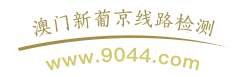
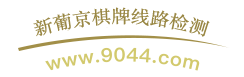
1

Changed region(s): [[0.1148, 0.1039, 0.8893, 0.4935]]

diff --git a/9044/m/index.html b/9044/m/index.html
@@ -5,7 +5,7 @@
 	<meta name="viewport"
 				content="width=device-width, user-scalable=no, initial-scale=1.0, maximum-scale=1.0, minimum-scale=1.0">
 <meta http-equiv="x-ua-compatible" content="ie=edge">
-<title>澳门新葡京</title>
+<title>新葡京棋牌</title>
 <link rel="shortcut icon" href="favicon.ico" type="image/x-icon">
 <link rel="stylesheet" href="css/reset.css">
 <link rel="stylesheet" href="css/style.css">
@@ -67,7 +67,7 @@ $(function(){
 <div class="header clearfix">
 	<div class="hImg"><img src="images/h_img01.png" alt=""></div>
 	<div class="hLogo"><a href="javascript:void(0);" target="_blank" class="logo"><img src="images/logo.png" alt=""></a></div>
-	<div class="hService"><a href="https://vue.livelyhelp.chat/chatWindow.aspx?siteId=5001108&planId=109#"><img src="images/h_img02.png" alt=""></a></div>
+	<div class="hService"><a href="https://vue.livelyhelp.chat/chatWindow.aspx?siteId=5001108&planId=109#" target="_blank"><img src="images/h_img02.png" alt=""></a></div>
 </div>
 <div id="main">
 	<ul class="tabUl clearfix">
@@ -132,12 +132,12 @@ $(function(){
 		<li class="lis"><a href="http://1110122.com" class="home"><img src="images/img05.png" alt=""><span>官方首页</span></a></li>
 		<li class="lis"><a href="http://1110122.com" class="zhuce"><img src="images/img06.png" alt=""><span>免费注册</span></a></li>
 		<li class="lis"><a href="http://1110122.com" class="daili"><img src="images/img07.png" alt=""><span>代理登入</span></a></li>
-		<li><a href="https://gzz833.livechatvalue.com/chat/chatClient/chatbox.jsp?companyID=1072641&configID=41615&jid=5509606658&s=1"><img src="images/img08.png" alt=""><span>在线客服</span></a></li>
+		<li><a href="https://vue.livelyhelp.chat/chatWindow.aspx?siteId=5001108&planId=109#" target="_blank"><img src="images/img08.png" alt=""><span>在线客服</span></a></li>
 	</ul>
 </div>
 </div>
 <div id="footer">
-	<p class="copyright">copyright © 2018 澳门新葡京 reserved</p>
+	<p class="copyright">copyright © 2018 新葡京棋牌 reserved</p>
 </div>
 <script type="text/javascript" src="js/ms.js"></script>
 </body>

diff --git a/9044/index.html b/9044/index.html
@@ -4,7 +4,7 @@
   <meta charset="utf-8">
   <meta name="viewport"
         content="width=device-width, initial-scale=1.0, maximum-scale=1.0, minimum-scale=1.0, user-scalable=no">
-  <title>澳门新葡京</title>
+  <title>新葡京棋牌</title>
   <meta name="keywords" content=""/>
   <meta name="description" content=""/>
   <meta name="keywords" content="">
@@ -246,7 +246,7 @@
   </div>
 </div>
 <div class="footer">
-  <p>Copyright © 澳门新葡京 Reserved</p>
+  <p>Copyright © 新葡京棋牌 Reserved</p>
 </div>
 </body>
 </html>
